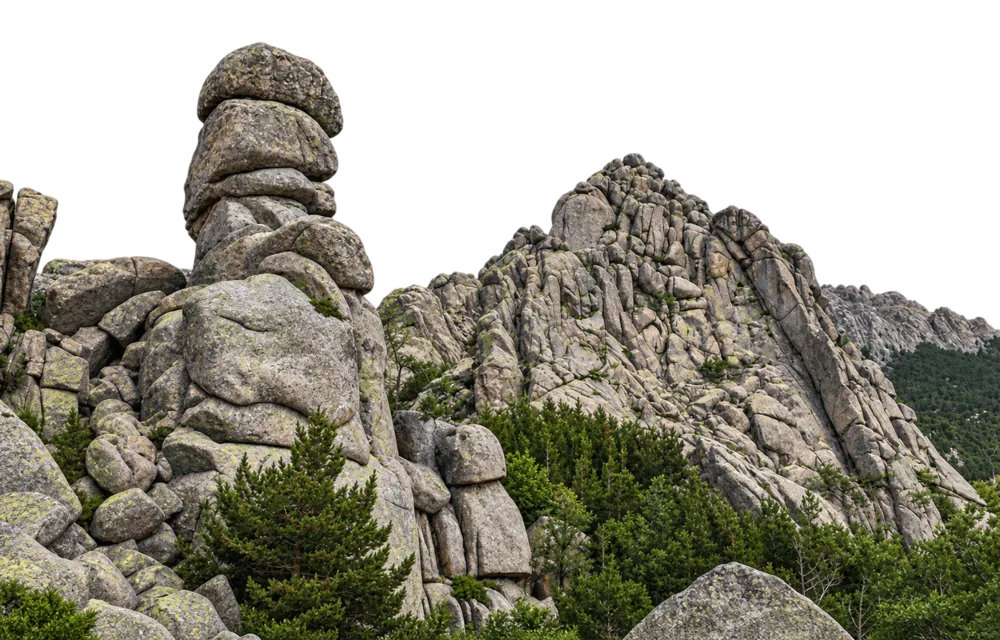
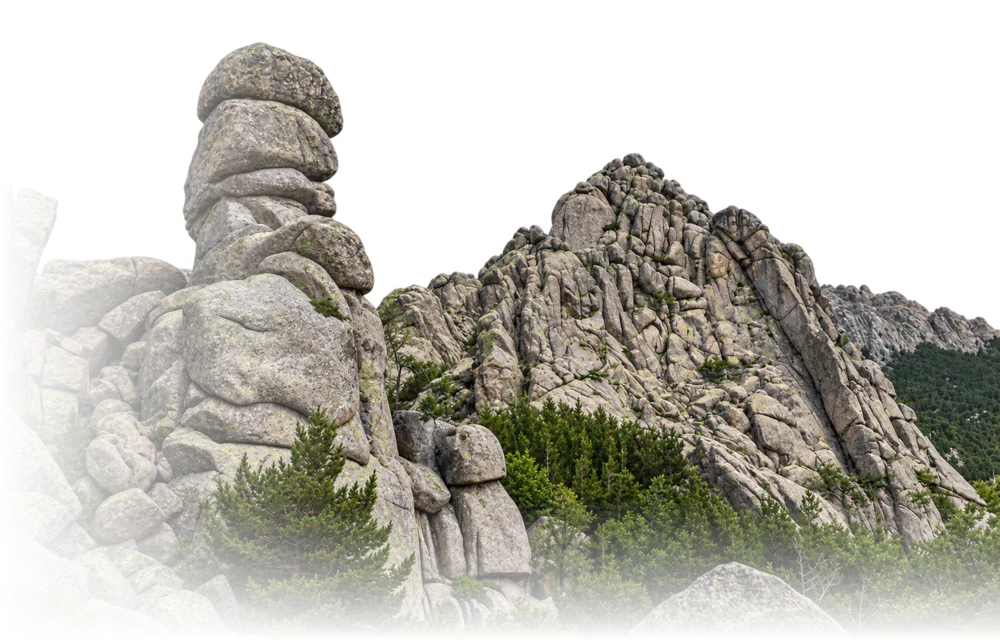
Fundido de la foto de cabecera sin cortes duros (máscara por elemento y bordes de La Pedriza)
Claude-Session: https://claude.ai/code/session_0158yjdMTcLitM4h8Eoe7CVa

diff --git a/app_2.css b/app_2.css
@@ -32022,6 +32022,10 @@ button.kxs-entry:focus-visible { outline: 2px solid var(--kx-forest); outline-of
   pointer-events: none;
   border-top-right-radius: var(--kx-radius-sheet);
   overflow: hidden;
+  /* Fundido hacia la izquierda (nombre y etiquetas). Una sola máscara por elemento: la composición de dos
+     máscaras no se aplicaba en iOS y dejaba el borde de la foto cortado en seco */
+  -webkit-mask-image: linear-gradient(to right, transparent 0%, #000 55%);
+  mask-image: linear-gradient(to right, transparent 0%, #000 55%);
 }
 #school-bottom-sheet .bs-hero img,
 #sector-bottom-sheet .bs-hero img {
@@ -32031,11 +32035,9 @@ button.kxs-entry:focus-visible { outline: 2px solid var(--kx-forest); outline-of
   object-fit: contain;
   object-position: var(--hero-pos, right top);
   transform: translate(var(--hero-x, 0px), var(--hero-y, 0px));
-  /* Se funde hacia la izquierda (nombre y etiquetas) y hacia abajo (contenido) */
-  -webkit-mask-image: linear-gradient(to right, transparent 0%, #000 48%), linear-gradient(to bottom, #000 52%, transparent 100%);
-  -webkit-mask-composite: source-in;
-  mask-image: linear-gradient(to right, transparent 0%, #000 48%), linear-gradient(to bottom, #000 52%, transparent 100%);
-  mask-composite: intersect;
+  /* Se funde hacia abajo (contenido); el fundido lateral va en el contenedor */
+  -webkit-mask-image: linear-gradient(to bottom, #000 52%, transparent 100%);
+  mask-image: linear-gradient(to bottom, #000 52%, transparent 100%);
 }
 #school-bottom-sheet .bs-hero.is-generic img,
 #sector-bottom-sheet .bs-hero.is-generic img { opacity: 0.85; }

diff --git a/index.html b/index.html
@@ -63,7 +63,7 @@
   <link href="https://fonts.googleapis.com/css2?family=Manrope:wght@400;500;600;700;800&family=Inter:wght@400;500;600;700;800&display=swap" rel="stylesheet">
 
   <!-- CSS with cache busting -->
-  <link rel="stylesheet" href="./app_2.css?v=216" />
+  <link rel="stylesheet" href="./app_2.css?v=217" />
 
   <!-- Capacitor - debe cargarse primero para detectar plataforma -->
 

diff --git a/sw.js b/sw.js
@@ -4,7 +4,7 @@
  * PWA completa con soporte offline
  */
 
-const CACHE_VERSION = 'v236';
+const CACHE_VERSION = 'v238';
 const CACHE_NAME = `krux-cache-${CACHE_VERSION}`;
 const DATA_CACHE_NAME = `krux-data-${CACHE_VERSION}`;
 const OFFLINE_URL = './offline.html';
